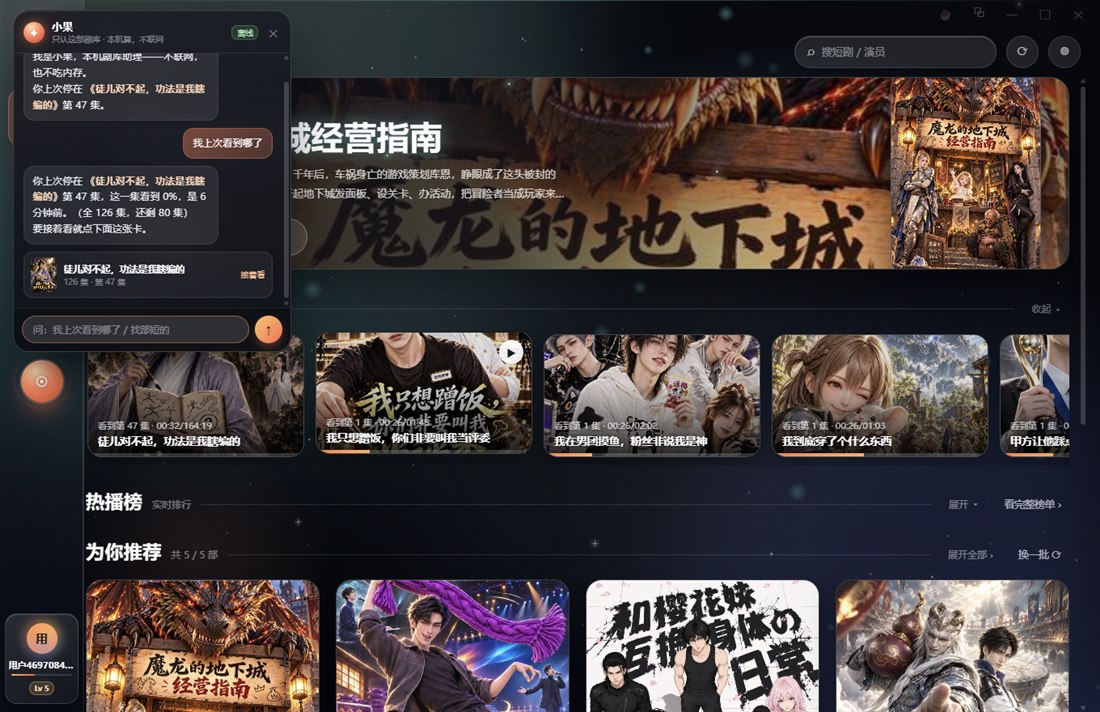
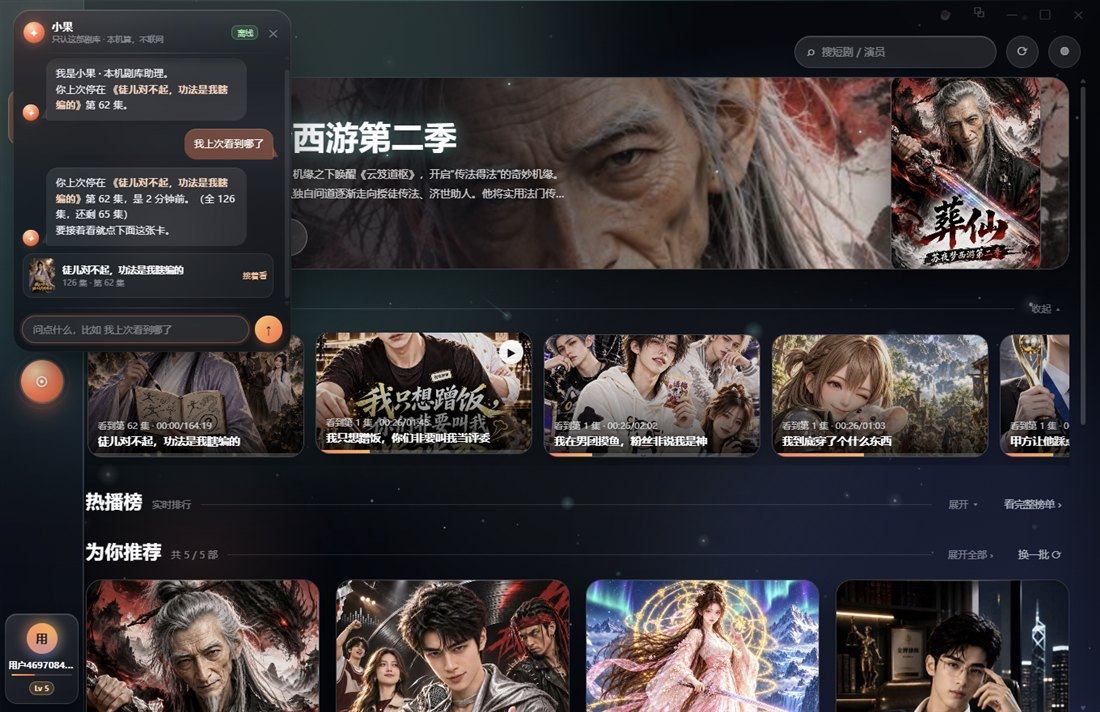
feat: 小果对话框改玻璃 + 气泡；docs: v1.012

diff --git a/ui/index.html b/ui/index.html
@@ -664,18 +664,24 @@
   .aiball.on::before{animation-duration:1.5s}
   @media (max-height:720px){.aiball{width:44px;height:44px;margin-top:8px}}
 
-  .aipop{position:fixed;left:112px;bottom:120px;width:344px;height:min(486px,70vh);z-index:64;
-    display:flex;flex-direction:column;border-radius:20px;overflow:hidden;
-    background:linear-gradient(180deg,rgba(24,27,36,.9),rgba(15,17,24,.95));
-    backdrop-filter:blur(30px) saturate(140%);
-    border:1px solid rgba(255,255,255,.15);
-    box-shadow:0 30px 70px -22px rgba(0,0,0,.95),inset 0 1px 0 rgba(255,255,255,.1);
-    transform:translateY(16px) scale(.9);transform-origin:0 100%;opacity:0;pointer-events:none;
-    transition:transform .36s var(--ease),opacity .24s ease}
+  .aipop{position:fixed;left:112px;bottom:120px;width:344px;height:min(512px,72vh);z-index:64;
+    display:flex;flex-direction:column;border-radius:22px;overflow:hidden;
+    background:rgba(17,20,27,.74);
+    -webkit-backdrop-filter:blur(42px) saturate(155%);backdrop-filter:blur(42px) saturate(155%);
+    box-shadow:0 34px 76px -28px rgba(0,0,0,.95),
+      inset 0 0 0 1px rgba(255,255,255,.08),inset 0 1px 0 rgba(255,255,255,.17);
+    transform:translateY(18px) scale(.9);transform-origin:0 100%;opacity:0;pointer-events:none;
+    transition:transform .42s var(--ease),opacity .26s ease}
+  /* 一层"玻璃厚度"：上缘提亮、下缘压暗，代替生硬的描边 */
+  .aipop::before{content:"";position:absolute;inset:0;border-radius:inherit;pointer-events:none;z-index:0;
+    background:linear-gradient(180deg,rgba(255,255,255,.07),rgba(255,255,255,.015) 22%,
+      rgba(0,0,0,.05) 62%,rgba(0,0,0,.16))}
   .aipop.on{transform:none;opacity:1;pointer-events:auto}
 
-  .aiph{display:flex;align-items:center;gap:9px;padding:12px 12px 10px;flex:none;
-    border-bottom:1px solid rgba(255,255,255,.09)}
+  .aiph{position:relative;display:flex;align-items:center;gap:9px;padding:13px 13px 11px;flex:none;z-index:1;
+    background:linear-gradient(180deg,rgba(255,255,255,.055),transparent)}
+  .aiph::after{content:"";position:absolute;left:14px;right:14px;bottom:0;height:1px;
+    background:linear-gradient(90deg,transparent,rgba(255,255,255,.16),transparent)}
   .aiph .av{width:26px;height:26px;border-radius:50%;display:grid;place-items:center;font-size:12px;flex:none;color:#fff;
     background:radial-gradient(circle at 36% 26%,#ffdcae,#ff7a55 52%,#c4431f);box-shadow:0 0 14px rgba(255,122,85,.6)}
   .aiph .tt{display:flex;flex-direction:column;gap:1px;min-width:0;flex:1}
@@ -687,17 +693,33 @@
     padding:2px 4px;border-radius:8px;transition:all .16s}
   .aiph .x:hover{background:rgba(255,255,255,.12);color:#fff}
 
-  .aibody{flex:1;overflow-y:auto;padding:12px;display:flex;flex-direction:column;gap:9px;
-    scrollbar-width:thin;scrollbar-color:rgba(255,255,255,.18) transparent}
-  .aibody::-webkit-scrollbar{width:6px}
-  .aibody::-webkit-scrollbar-thumb{background:rgba(255,255,255,.18);border-radius:99px}
-  .am{display:flex;gap:7px;align-items:flex-end}
+  .aibody{position:relative;z-index:1;flex:1;overflow-y:auto;padding:15px 12px 12px;
+    display:flex;flex-direction:column;gap:10px;
+    scrollbar-width:thin;scrollbar-color:rgba(255,255,255,.09) transparent;
+    -webkit-mask-image:linear-gradient(180deg,transparent 0,#000 16px,#000 calc(100% - 8px),transparent 100%);
+    mask-image:linear-gradient(180deg,transparent 0,#000 16px,#000 calc(100% - 8px),transparent 100%)}
+  .aibody::-webkit-scrollbar{width:3px}
+  .aibody::-webkit-scrollbar-thumb{background:rgba(255,255,255,.09);border-radius:99px}
+
+  /* 气泡：纯半透明色，尾巴与气泡零重叠同色，所以在同一片上完全看不出接缝 */
+  .am{display:flex;gap:9px;align-items:flex-end;animation:amIn .36s var(--ease) both}
   .am.me{flex-direction:row-reverse}
-  .am .bb{max-width:241px;padding:8px 11px;border-radius:13px;font-size:12.3px;line-height:1.62;color:#eef1f8;
-    background:rgba(255,255,255,.085);border:1px solid rgba(255,255,255,.08);word-break:break-word}
-  .am.me .bb{background:linear-gradient(135deg,rgba(255,122,85,.44),rgba(255,122,85,.24));
-    border-color:rgba(255,122,85,.38);color:#fff}
+  @keyframes amIn{from{opacity:0;transform:translateY(8px) scale(.985)}to{opacity:1;transform:none}}
+  .am .amv{width:20px;height:20px;border-radius:50%;flex:none;display:grid;place-items:center;font-size:9px;
+    color:#fff;background:radial-gradient(circle at 36% 26%,#ffdcae,#ff7a55 52%,#c4431f);
+    box-shadow:0 4px 12px -5px rgba(255,110,70,.85),inset 0 1px 0 rgba(255,255,255,.5)}
+  .am .bb{position:relative;max-width:248px;padding:9px 12px;border-radius:15px 15px 15px 3px;
+    font-size:12.3px;line-height:1.6;color:#eef1f8;word-break:break-word;
+    background:rgba(255,255,255,.085);
+    box-shadow:inset 0 1px 0 rgba(255,255,255,.08)}
+  .am .bb::after{content:"";position:absolute;left:-6px;bottom:3px;width:7px;height:13px;
+    background:rgba(255,255,255,.085);clip-path:polygon(100% 0,100% 100%,0 100%)}
+  .am.me .bb{background:rgba(255,122,85,.38);color:#fff;border-radius:15px 15px 3px 15px;
+    box-shadow:inset 0 1px 0 rgba(255,205,185,.22)}
+  .am.me .bb::after{left:auto;right:-6px;bottom:3px;width:7px;height:13px;
+    background:rgba(255,122,85,.38);clip-path:polygon(0 0,0 100%,100% 100%)}
   .am .bb b{color:#ffd2b8;font-weight:700}
+  .am.me .bb b{color:#ffe9dc}
   .am.tp .bb{color:var(--muted-2);letter-spacing:2px}
   .am.tp .bb i{display:inline-block;width:4px;height:4px;border-radius:50%;background:currentColor;margin-right:3px;
     opacity:.4;animation:tpDot 1.2s infinite}
@@ -705,30 +727,46 @@
   .am.tp .bb i:nth-child(3){animation-delay:.4s}
   @keyframes tpDot{0%,100%{opacity:.25}45%{opacity:1}}
 
-  .ami{display:flex;gap:9px;align-items:center;padding:6px 8px;border-radius:11px;cursor:pointer;
-    background:rgba(255,255,255,.055);border:1px solid rgba(255,255,255,.1);transition:all .18s var(--ease)}
-  .ami:hover{background:rgba(255,255,255,.12);border-color:rgba(255,122,85,.45);transform:translateY(-1px)}
+  .ami{position:relative;z-index:1;display:flex;gap:9px;align-items:center;padding:6px 8px;border-radius:12px;
+    cursor:pointer;background:rgba(255,255,255,.045);
+    -webkit-backdrop-filter:blur(16px);backdrop-filter:blur(16px);
+    box-shadow:inset 0 0 0 1px rgba(255,255,255,.07);
+    transition:background .2s var(--ease),box-shadow .2s var(--ease),transform .2s var(--ease);
+    animation:amIn .3s var(--ease) both}
+  .ami:hover{background:rgba(255,255,255,.1);transform:translateY(-1px);
+    box-shadow:inset 0 0 0 1px rgba(255,122,85,.42),0 12px 24px -16px rgba(0,0,0,.85)}
   .ami img,.ami .ph{width:32px;height:43px;border-radius:7px;object-fit:cover;flex:none;background:rgba(255,255,255,.1)}
   .ami .tx{min-width:0;display:flex;flex-direction:column;gap:2px}
   .ami .tx b{font-size:11.5px;white-space:nowrap;overflow:hidden;text-overflow:ellipsis}
   .ami .tx span{font-size:10px;color:var(--muted-2);white-space:nowrap;overflow:hidden;text-overflow:ellipsis}
   .ami .go{margin-left:auto;flex:none;font-size:10px;color:#ffb98f}
 
-  .aichips{display:flex;flex-wrap:wrap;gap:5px;padding:0 12px 9px;flex:none}
-  .aichips button{border:1px solid rgba(255,255,255,.13);background:rgba(255,255,255,.06);color:var(--muted);
-    font-family:inherit;font-size:10.5px;padding:5px 9px;border-radius:999px;cursor:pointer;white-space:nowrap;
-    transition:all .16s}
-  .aichips button:hover{background:rgba(255,122,85,.2);border-color:rgba(255,122,85,.42);color:#fff}
+  .aichips{position:relative;z-index:1;display:flex;flex-wrap:wrap;gap:5px;padding:0 12px 10px;flex:none}
+  .aichips button{border:0;background:rgba(255,255,255,.06);color:var(--muted);
+    font-family:inherit;font-size:10.5px;padding:5px 10px;border-radius:999px;cursor:pointer;white-space:nowrap;
+    box-shadow:inset 0 0 0 1px rgba(255,255,255,.11);
+    -webkit-backdrop-filter:blur(12px);backdrop-filter:blur(12px);
+    transition:background .18s,box-shadow .18s,color .18s}
+  .aichips button:hover{background:rgba(255,122,85,.18);color:#fff;
+    box-shadow:inset 0 0 0 1px rgba(255,122,85,.45),0 8px 18px -12px rgba(255,110,70,.9)}
 
-  .aiin{display:flex;gap:7px;padding:9px 10px 10px;flex:none;border-top:1px solid rgba(255,255,255,.09);
-    background:rgba(0,0,0,.2)}
-  .aiin input{flex:1;min-width:0;height:34px;border-radius:999px;border:1px solid rgba(255,255,255,.13);
-    background:rgba(255,255,255,.07);color:#fff;font-family:inherit;font-size:12px;padding:0 13px;outline:none;
-    transition:all .2s}
-  .aiin input:focus{border-color:rgba(255,122,85,.5);background:rgba(255,255,255,.13)}
+  .aiin{position:relative;z-index:1;display:flex;gap:7px;padding:10px 11px 11px;flex:none;
+    background:linear-gradient(0deg,rgba(0,0,0,.16),rgba(0,0,0,.02))}
+  .aiin::before{content:"";position:absolute;left:14px;right:14px;top:0;height:1px;
+    background:linear-gradient(90deg,transparent,rgba(255,255,255,.16),transparent)}
+  .aiin input{flex:1;min-width:0;height:34px;border-radius:999px;border:0;outline:none;
+    background:rgba(255,255,255,.065);color:#fff;font-family:inherit;font-size:12px;padding:0 14px;
+    box-shadow:inset 0 0 0 1px rgba(255,255,255,.1),inset 0 1px 0 rgba(255,255,255,.09);
+    -webkit-backdrop-filter:blur(16px);backdrop-filter:blur(16px);
+    transition:background .2s,box-shadow .22s}
+  .aiin input:focus{background:rgba(255,255,255,.11);
+    box-shadow:inset 0 0 0 1px rgba(255,122,85,.42),0 0 0 3px rgba(255,122,85,.1)}
   .aiin input::placeholder{color:var(--muted-2)}
   .aiin button{width:34px;height:34px;flex:none;border:0;border-radius:50%;cursor:pointer;font-size:14px;color:#1a1207;
-    background:linear-gradient(135deg,#ffc46b,#ff6b46);box-shadow:0 6px 16px -6px rgba(255,110,70,.9);transition:transform .16s}
+    background:linear-gradient(135deg,#ffc46b,#ff6b46);
+    box-shadow:0 6px 16px -6px rgba(255,110,70,.9),inset 0 1px 0 rgba(255,255,255,.35);
+    transition:transform .16s var(--ease),box-shadow .2s}
+  .aiin button:hover{box-shadow:0 8px 20px -6px rgba(255,110,70,1),inset 0 1px 0 rgba(255,255,255,.45)}
   .aiin button:active{transform:scale(.93)}
   body.fs .aipop,body.mini .aipop{display:none}
 
@@ -1175,7 +1213,7 @@ body.mini .hevcbar{display:none !important}
   <div class="aibody" id="aiBody"></div>
   <div class="aichips" id="aiChips"></div>
   <div class="aiin">
-    <input id="aiInput" placeholder="问：我上次看到哪了 / 找部短的" maxlength="60">
+    <input id="aiInput" placeholder="问点什么，比如 我上次看到哪了" maxlength="60">
     <button id="aiSend" title="发送（回车）">↑</button>
   </div>
 </div>

diff --git a/ui/app.js b/ui/app.js
@@ -2401,14 +2401,14 @@
     function msg(html, me) {
       var d = document.createElement("div");
       d.className = "am" + (me ? " me" : "");
-      d.innerHTML = '<div class="bb">' + html + "</div>";
+      d.innerHTML = (me ? "" : '<i class="amv">✦</i>') + '<div class="bb">' + html + "</div>";
       body.appendChild(d); down();
       return d;
     }
     function typing() {
       var d = document.createElement("div");
       d.className = "am tp";
-      d.innerHTML = '<div class="bb"><i></i><i></i><i></i></div>';
+      d.innerHTML = '<i class="amv">✦</i><div class="bb"><i></i><i></i><i></i></div>';
       body.appendChild(d); down();
       return d;
     }
@@ -2625,18 +2625,17 @@
       var bottom = Math.max(10, window.innerHeight - b.top + 10);
       var avail = window.innerHeight - bottom - 12;   /* 不留这层限制，气泡头部会被窗口上边裁掉 */
       pop.style.bottom = bottom + "px";
-      pop.style.height = Math.max(236, Math.min(486, avail)) + "px";
+      pop.style.height = Math.max(236, Math.min(512, avail)) + "px";
       pop.style.left = Math.max(6, b.left - 10) + "px";
     }
     function seed() {
-      var d = msg("我是小果，本机剧库助理——不联网，也不吃内存。");
+      var d = msg("我是小果 · 本机剧库助理。");
       lib(function (l) {
         var h = hist(l);
         if (!h.length) return;
         var e = h[0], dr = dOf(e), bb = d.querySelector(".bb");
         if (bb) {
-          bb.innerHTML += "<br>你上次停在 <b>《" + esc(dr.title || "那部剧") + "》</b>第 " + (Number(e.episode) || 1) + " 集。";
-          down();
+          bb.innerHTML += "<br>你上次停在 <b>《" + esc(dr.title || "那部剧") + "》</b>第 " + (Number(e.episode) || 1) + " 集。";          down();
         }
       });
     }

diff --git a/README.md b/README.md
@@ -3,15 +3,15 @@
 > 官方客户端一个字没动，功能全保留，只是把那张"呆板的脸"换了。
 > 纯前端换皮 + 一层很薄的 C# 外壳，双击 exe 就能用，不需要 Docker、不需要另起服务。
 
-**当前版本：v1.011**（2026-11-22）
+**当前版本：v1.012**（2026-11-23）
 
 ## 下载
 
-- 最新版：`v1.011` → https://github.com/guhang42-jpg/hongguo-desktop-skin/releases/tag/v1.011
-- 直链：`https://github.com/guhang42-jpg/hongguo-desktop-skin/releases/download/v1.011/hongguo-skin-1.011-win64.zip`
-- 文件：`hongguo-skin-1.011-win64.zip`（约 6.6 MB，解压即用）
[1 lines of base64/hex data omitted]
-- 上一版（v1.010）：https://github.com/guhang42-jpg/hongguo-desktop-skin/releases/tag/v1.010
+- 最新版：`v1.012` → https://github.com/guhang42-jpg/hongguo-desktop-skin/releases/tag/v1.012
+- 直链：`https://github.com/guhang42-jpg/hongguo-desktop-skin/releases/download/v1.012/hongguo-skin-1.012-win64.zip`
+- 文件：`hongguo-skin-1.012-win64.zip`（约 6.6 MB，解压即用）
[1 lines of base64/hex data omitted]
+- 上一版（v1.011）：https://github.com/guhang42-jpg/hongguo-desktop-skin/releases/tag/v1.011
 
 > **一键摸鱼**：任意时候按 `Ctrl+Shift+M`，窗口当场变成一张 Excel 财务台账（标题、任务栏标题一并改掉，剧也顺手暂停静音）；再按一次原样回来。顶栏那颗 ☕ 也是同一个开关。
 
@@ -64,6 +64,7 @@ ui/index.html, ui/app.js, ui/icon.png
 - 整窗毛玻璃质感 + 深空底色统一，窗口边缘直角不圆润（Win11 的 DWM 圆角也关掉了）
 - 幽光 / 星空 / 流星 / 光尘动态背景，按剧的类型换配色，播放时更活跃，鼠标有视差
 - **小果**：侧栏「我的」下面一颗小球，点开是一卷往上长出来的对话气泡。查你看到哪了、按关键词或集数找剧、翻收藏、报本机记录，说「看《XX》」直接开播。**零模型、零常驻、不联网**，全部走 core 的本地接口
+- 小果的对话框是一块**玻璃**：半透明底 + 背景模糊 + 一层薄膜厚度，没有描边；说话气泡左右分色、各带一个朝向说话人的尖角，尾巴和气泡同色零重叠，放大也看不出接缝
 
 播放：
 
@@ -122,6 +123,15 @@ ui/index.html, ui/app.js, ui/icon.png
 - 若权利人认为本仓库或发布物侵犯其权益，请通过 Issue 或邮件联系我，我会在收到通知后 **24 小时内删除仓库与全部发布物**（侵权立删，不需要解释）。
 
 ## 更新日志
+
+### v1.012（2026-11-23）
+
+- 小果对话框整块改成**真玻璃**：底从 56% 降到 74% 不透明度 + 42px 背景模糊，靠"上缘提亮 / 下缘压暗"的一层薄膜做出厚度，去掉 1px 实线描边
+- 消息从方角灰块改成**左右对话气泡**：送话人在右、橙色，小果在左、灰色，各带一个朝向说话人的尖角；气泡本身不再单独做 backdrop-filter，尾巴与气泡同色零重叠，所以放大 4 倍也看不接缝
+- 每条消息左侧加了小果的头像点，消息进场有 8px 上浮 + 淡入
+- **无痕迹处理**：消息区上下两端用 mask 渐隐，滚到边上的气泡自然化进面板；分隔线改成两端消失的渐变线；滚动条从 6px 压到 3px、透明度压到 9%，几乎看不见
+- 输入框 focus 改成内描边 + 外发光，发送键 hover 提亮
+- 首屏文案压短一行，气泡上限从 486 提到 512，落地首屏不再被上下裁
 
 ### v1.011（2026-11-22）
 

diff --git a/docs/release-1.012.md b/docs/release-1.012.md
@@ -1,0 +1,38 @@
+# v1.012 — 小果对话框：玻璃、气泡、无痕迹
+
+这一版只改小果那一块的外观和手感，功能、包体、启动方式都没动，仍是 8 个文件、解压即用。
+
+## 玻璃
+
+上一版是一块实底深灰渐变 + 1px 描边，看着像贴了张不透明的卡片。这版换成真玻璃：
+
+- 底色从 90% 不透明度降到 74%，背后加 42px 模糊 —— 首页的海报墙不再被完全挡住，变成了透过毛玻璃的一层色雾
+- 描边整条去掉，改用两层内阴影：上缘一条极细的亮边、下缘一层渐暗。这样"玻璃的厚度"能看出来，但看不到任何一条硬线
+- 面板内部再压一层上下渐变（顶部微亮、底部微暗），像从侧面看一块厚玻璃的截面
+
+## 气泡
+
+消息从"方角灰块"改成左右对话气泡：
+
+- 送话在右、橙色；小果在左、灰色。两边各带一个朝向说话人的尖角，内侧那个角收小，读起来就是一条从嘴里出来的话
+- 气泡本身**不再单独做背景模糊**。这是刻意的：尾巴和气泡都只是同一个半透明色，两者零重叠、同色同透明度，落在同一片背景上，所以放大 4 倍也找不到接缝。如果给气泡单独加模糊，尾巴采样的是没被模糊的背景，接缝立刻显形
+- 每条小果消息左边有一个 20px 的头像点，消息进场是 8px 上浮 + 淡入
+
+## 无痕迹
+
+- 消息区上下两端用 mask 渐隐：滚到边上的气泡不是被硬切一半，而是化进面板
+- 头部分隔线、输入区分隔线都改成"两端消失"的渐变线，中间实、两头虚
+- 滚动条从 6px 压到 3px，透明度压到 9%，只在内容溢出时若隐若现
+- 首屏文案压短一行、气泡上限从 486 提到 512，落地时第一条消息不再被上下裁掉
+
+## 边界
+
+- 玻璃的模糊半径是像素级固定值，窗口拉到很小（小窗 560×315）时对话面板本来就不显示（`body.mini` / `body.fs`），所以不存在"小窗口下拉伸出错"的情况
+- 气泡里的数字、剧名仍然全部来自 core 的真实响应，这一版没碰任何逻辑
+- 依然零模型、零常驻：关掉面板不动 DOM，不加载任何 ONNX/WASM
+
+## 校验
+
+- `hongguo-skin-1.012-win64.zip`，6,935,084 字节
[1 lines of base64/hex data omitted]
+- 目录 8 个条目：`红果短剧.exe` 248320 / 三个 WebView2 dll / `core/hongguo-tv-core.exe` / `ui/app.js` / `ui/index.html` / `ui/icon.png`
